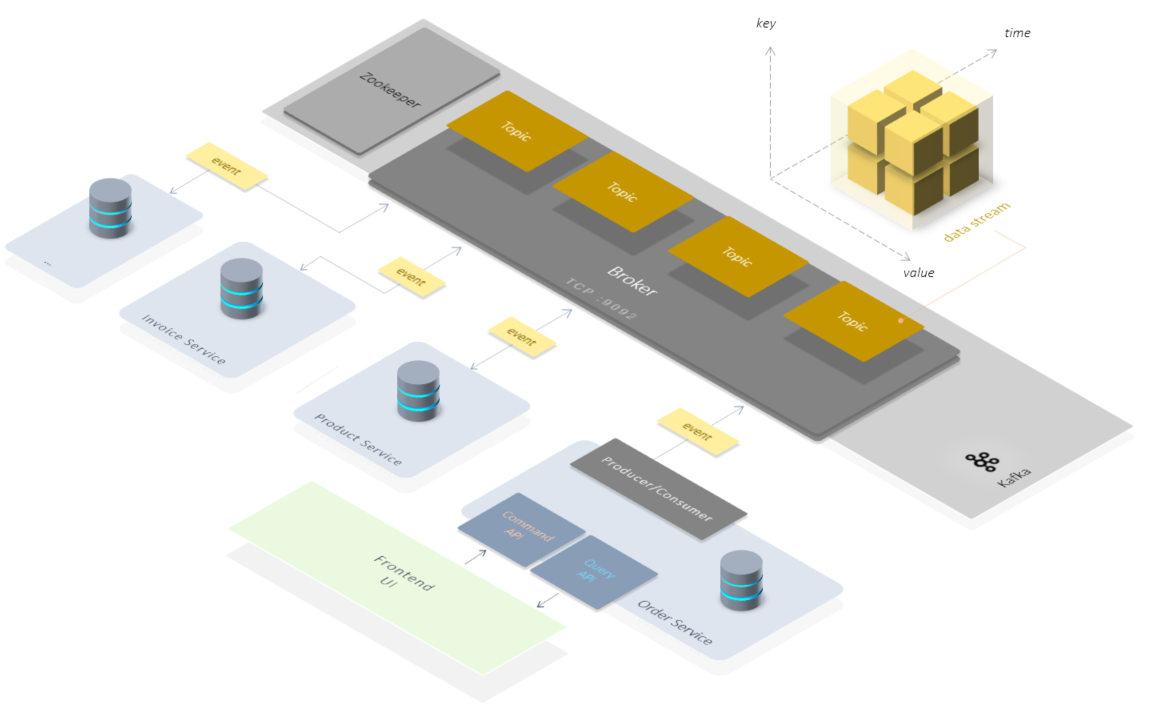
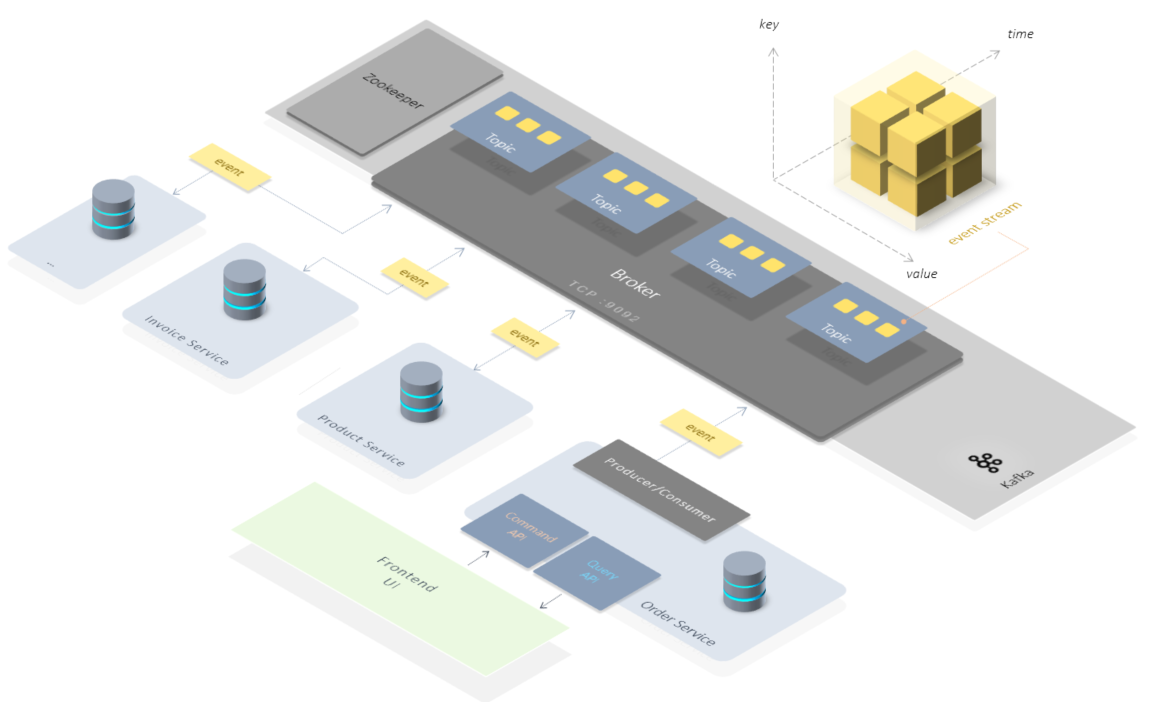
images updated, pubsub replaced with api

diff --git a/README.md b/README.md
@@ -89,7 +89,7 @@ More about the Kafka ecosystem.
 
 <a name="hello-kafka-api"></a>
 
-### [hello **kafka** api](hello-kafka-pubsub) <br/>
+### [hello **kafka** api](hello-kafka-api) <br/>
 a simple publish/subscribe sample using Kafka + Spring + Kotlin + Gradle
 
 <br/><br/>
@@ -98,7 +98,7 @@ a simple publish/subscribe sample using Kafka + Spring + Kotlin + Gradle
 
 ### hello **kafka** unit-test
 
-xxx
+*...coming soon*
 <br/><br/>
 
 <a name="hello-kafka-streams"></a>

diff --git a/hello-kafka/readme.md b/hello-kafka/readme.md
@@ -1,7 +1,7 @@
 # Hello Kafka 
 setting up a local kafka playground.
 
-![alt text](../docs/kafka-publish-subscribe-simple.png)
+![alt text](../docs/kafka-basic.png)
 
 An executable Kafka environment consists in a minimal variant of at least 2 components:
 

diff --git a/hello-kafka-api/readme.md b/hello-kafka-api/readme.md
@@ -1,7 +1,7 @@
 # Hello Kafka 
 a tiny publish/subscribe example using Kafka + Spring + Kotlin + Gradle
 
-![alt text](../docs/kafka-publish-subscribe-simple.png)
+![alt text](../docs/kafka-publish-subscribe.png)
 
 # Example
 
